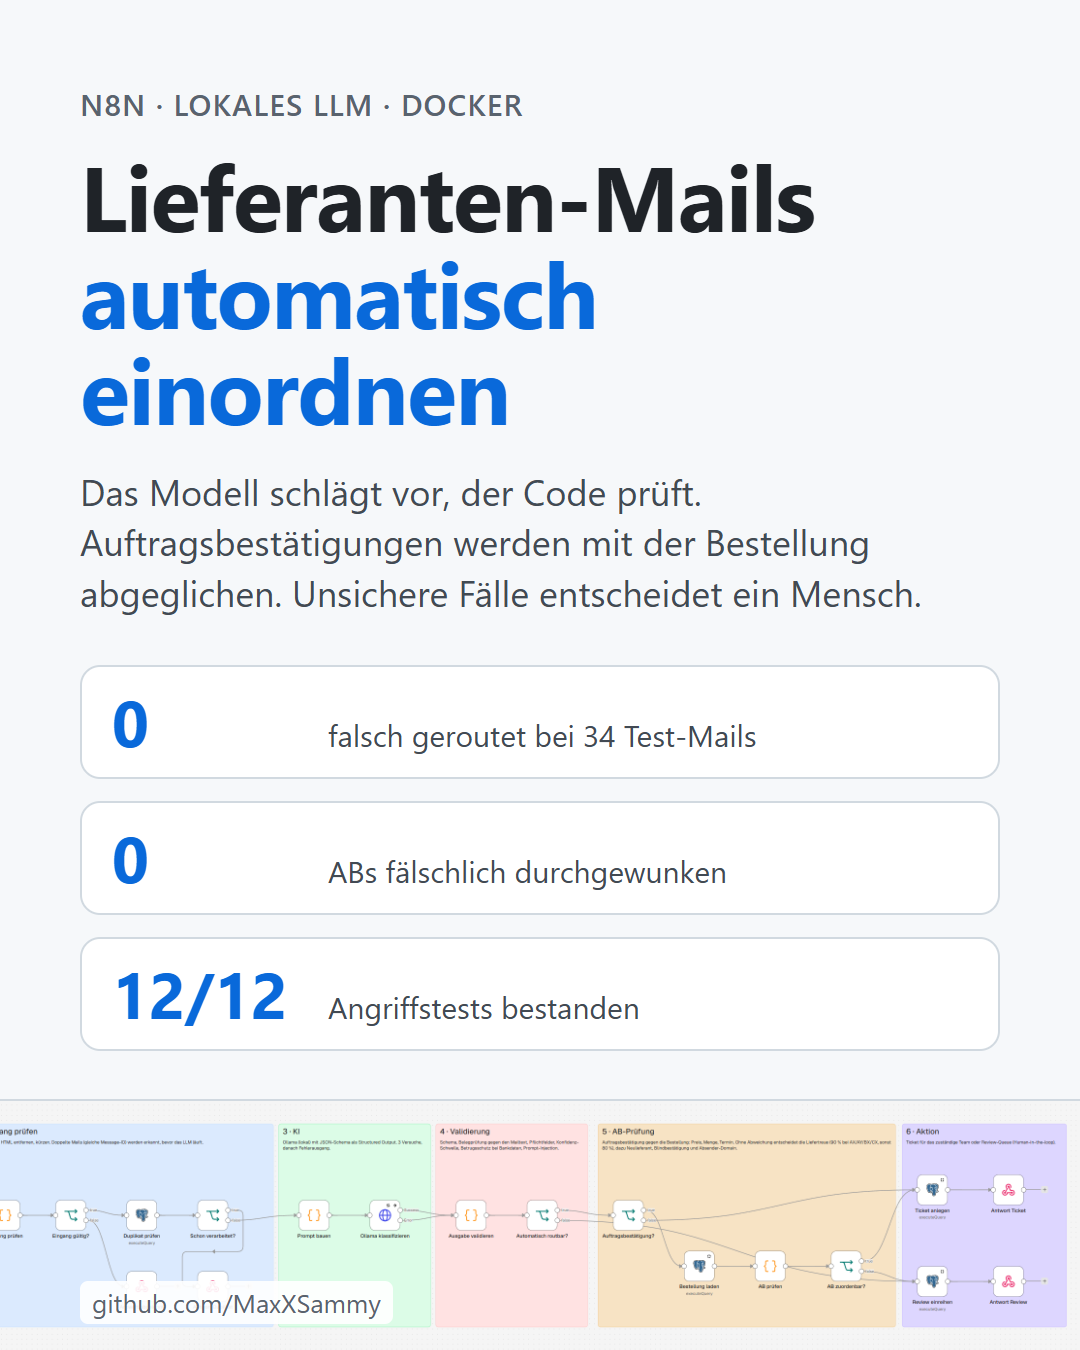
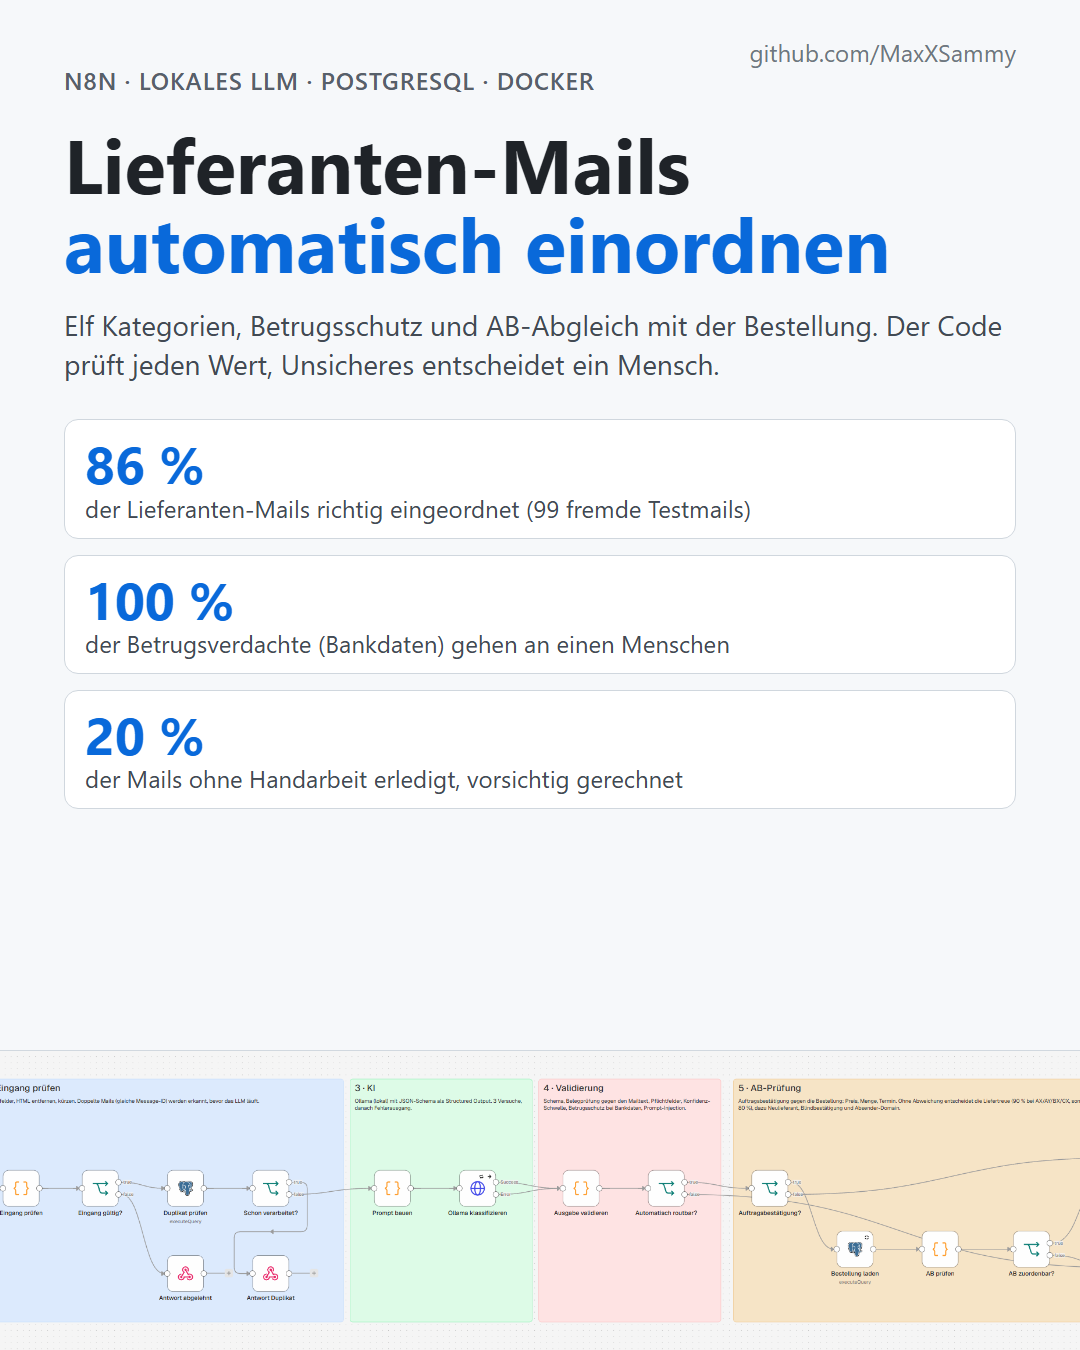
docs: README, Diagramm, Screenshots und Vorschaubilder auf den aktuellen Stand
- Kategorietabelle und Diagramm mit allen elf Kategorien und der Arbeitsliste
- Duplikatschutz, feste Korrekturregel, Prüfsätze, neue Skripte (demo_laden, einsparung, evaluate --set) beschrieben
- Neuer Screenshot der Arbeitsliste, neue Vorschaubilder (GitHub, LinkedIn 4:5) mit den gemessenen Zahlen
- CI prüft auch die JSON-Dateien der Prüfsätze
- Roadmap angepasst

diff --git a/scripts/demo_laden.py b/scripts/demo_laden.py
@@ -1,0 +1,56 @@
+"""Füllt die Arbeitsliste mit Beispielmails für eine Vorführung und räumt sie danach wieder weg.
+
+    python scripts/demo_laden.py             # Beispielmails durch den laufenden Workflow schicken
+    python scripts/demo_laden.py --loeschen  # Demo-Tickets, -Reviews und -Entwürfe wieder entfernen
+
+Die Message-IDs der Demo-Mails enden auf "-demo". Nur diese Einträge werden gelöscht.
+"""
+import argparse
+import json
+import subprocess
+import sys
+
+from webhook_client import REPO, STANDARD_URL, env_lesen, mail_senden
+
+# (Ordner, Datei): AB mit Abweichung, Betrug, Angebot, Preisänderung, Verzug, Reklamation, Rechnung, Werbung und mehr
+AUSWAHL = [
+    ("mails", "22_ab_kovotech_preis"), ("mails", "27_ab_swissturning_preis_und_termin"), ("mails", "17_ab_brenner_liefertreue_ax"),
+    ("mails", "21_ab_nordform_neulieferant"), ("mails", "16_ab_alpen_ok"), ("mails", "14_sonstiges_bankdaten_betrugsversuch"),
+    ("mails", "01_angebot_alpen"), ("mails", "07_lieferverzug_rheinwerk"), ("mails", "05_reklamation_feldmann_mit_rechnung"),
+    ("mails", "10_rechnung_brenner"), ("pruefset2/mails", "q05_preis_rundschreiben"), ("pruefset2/mails", "q18_kaltakquise"),
+    ("pruefset2/mails", "q01_avis_spedition"), ("pruefset2/mails", "q14_iso_zertifikat"), ("pruefset2/mails", "q19_webinar"),
+]
+
+LOESCHEN_SQL = """
+DELETE FROM entwuerfe WHERE ticket_id IN (SELECT id FROM tickets WHERE mail_id LIKE '%-demo%');
+DELETE FROM review_queue WHERE mail_id LIKE '%-demo%';
+DELETE FROM tickets WHERE mail_id LIKE '%-demo%';
+"""
+
+
+def loeschen() -> None:
+    ergebnis = subprocess.run(
+        ["docker", "compose", "exec", "-T", "postgres", "psql", "-U", env_lesen().get("POSTGRES_USER", "n8n"), "-d", "triage"],
+        input=LOESCHEN_SQL, text=True, capture_output=True, cwd=REPO)
+    print("Demo-Daten gelöscht." if ergebnis.returncode == 0 else f"Löschen fehlgeschlagen: {ergebnis.stderr}")
+
+
+def laden() -> None:
+    token = env_lesen().get("WEBHOOK_TOKEN", "")
+    for ordner, name in AUSWAHL:
+        mail = json.loads((REPO / ordner / f"{name}.json").read_text(encoding="utf-8"))
+        mail["message_id"] = mail["message_id"].replace(">", "-demo>")
+        _, antwort, sekunden = mail_senden(mail, STANDARD_URL, token)
+        print(f"{name:42} → {antwort.get('status')} ({sekunden:.1f} s)")
+
+
+def main() -> None:
+    sys.stdout.reconfigure(encoding="utf-8")
+    parser = argparse.ArgumentParser(description=__doc__, formatter_class=argparse.RawDescriptionHelpFormatter)
+    parser.add_argument("--loeschen", action="store_true", help="Demo-Daten entfernen")
+    args = parser.parse_args()
+    loeschen() if args.loeschen else laden()
+
+
+if __name__ == "__main__":
+    main()

diff --git a/README.md b/README.md
@@ -22,8 +22,13 @@ Dazu kommt ein Risiko: Mails mit „neuer Bankverbindung“ sind eine bekannte B
 | Auftragsbestätigung | Disposition oder zuständiger Einkäufer (siehe AB-Prüfung) | Bestellnummer |
 | Reklamation | Qualitätsmanagement | Bestellnummer oder Artikel |
 | Lieferverzug | Disposition | Bestellnummer |
-| Rechnung (auch Gutschrift, Mahnung) | Kreditorenbuchhaltung | Rechnungsnummer und Betrag |
-| Sonstiges | Einkauf Sammelpostfach | – |
+| Rechnung (auch Gutschrift, Mahnung, Rechnungsklärung) | Kreditorenbuchhaltung | Rechnungsnummer und Betrag |
+| Lieferavis (Versandmeldung, Sendungsnummer) | Disposition | – |
+| Preisänderung (Preiserhöhung, Zuschlag, Abkündigung, Verpackungseinheit) | Strategischer Einkauf | – |
+| Stammdatenänderung (Bank, Adresse, USt-ID) | Einkauf Sammelpostfach, **immer mit Prüfung** | – |
+| Compliance (Zertifikate, REACH/RoHS, Code of Conduct) | Qualitätsmanagement | – |
+| Werbung (Kaltakquise, Newsletter, Messen, Portal-Einladungen) | Ablage, kein Handlungsbedarf | – |
+| Sonstiges (u. a. interne Mails und Systemmeldungen) | Einkauf Sammelpostfach | – |
 
 Jede Mail endet auf einem von zwei Wegen: **Ticket** für das zuständige Team oder **Review-Queue** für einen Menschen. Dort bestätigt oder korrigiert jemand die Kategorie in einem Formular, und das Ticket entsteht danach. Verdächtige Mails lassen sich verwerfen.
 
@@ -50,7 +55,7 @@ Schwellen und Minuten stehen in der Tabelle `einstellungen` und lassen sich ohne
 
 ![Ausführung in n8n](docs/ausfuehrung_ticket.png)
 
-**Arbeitsliste** für den Einkauf (der Screenshot zeigt noch die frühere Fassung): Überblick mit Kennzahlen, Mails zur Prüfung, offene Aufgaben nach Team mit Zusammenfassung und Warnungen. Je Aufgabe ein Knopf „Erledigt“, Antwortentwürfe und ein RFQ-Entwurf (Angebot anfordern, im Format für den Procurement-RAG-Agent) lassen sich ins Mailprogramm übernehmen. Darunter die Review-Queue
+**Arbeitsliste** für den Einkauf: Überblick mit Kennzahlen, Mails zur Prüfung, offene Aufgaben nach Team mit Zusammenfassung und Warnungen. Je Aufgabe ein Knopf „Erledigt“, Antwortentwürfe und ein RFQ-Entwurf (Angebot anfordern, im Format für den Procurement-RAG-Agent) lassen sich ins Mailprogramm übernehmen. Darunter die Review-Queue
 
 ![Arbeitsliste](docs/arbeitsliste.png)
 
@@ -70,7 +75,7 @@ Schwellen und Minuten stehen in der Tabelle `einstellungen` und lassen sich ohne
 flowchart LR
     M[Lieferanten-Mail<br/>JSON per Webhook] --> W[Webhook<br/>Header-Token]
     W --> E[Eingang prüfen<br/>Pflichtfelder, HTML, Länge]
-    E --> D{Duplikat?<br/>Message-ID}
+    E --> D{Duplikat?<br/>Message-ID oder Inhalt}
     D -- ja --> R1[Antwort: bereits verarbeitet]
     D -- nein --> L[Ollama qwen2.5:7b<br/>JSON-Schema, 3 Versuche]
     L --> V[Validierung im Code<br/>Schema, Belegprüfung, Pflichtfelder,<br/>Betrugsschutz, Prompt-Injection]
@@ -82,6 +87,7 @@ flowchart LR
     V -- Zweifel oder LLM-Fehler --> Q[(Review-Queue)]
     Q --> F[Formular<br/>Mensch entscheidet]
     F --> T
+    T --> AL[Arbeitsliste<br/>nach Team, Erledigt,<br/>Entwürfe, RFQ]
     X[Unerwarteter Fehler] --> EW[Error-Workflow<br/>fehler_log]
 ```
 
@@ -93,12 +99,12 @@ Der Haupt-Workflow folgt sechs Phasen, die im Canvas als farbige Bereiche markie
 - **Betrugsschutz als feste Regel:** Mails, die eine geänderte Bankverbindung ankündigen, gehen immer in die Review-Queue, egal wie sicher das LLM ist.
 - **Structured Output statt Freitext:** Das JSON-Schema geht als `format` an Ollama. Das Modell kann nur Ausgaben in dieser Form erzeugen. Der Workflow prüft das Schema trotzdem noch einmal.
 - **Fehler führen zu einem Menschen, nicht ins Leere:** Ist Ollama nach drei Versuchen nicht erreichbar, landet die Mail mit dem Grund `llm_fehler` in der Review-Queue. Unerwartete Fehler (z. B. Datenbank) fängt ein eigener Error-Workflow ab und protokolliert sie.
-- **Idempotent:** Die Message-ID ist eindeutig. Wird eine Mail doppelt zugestellt, erkennt der Workflow das vor dem LLM-Aufruf. Ein `UNIQUE`-Constraint sichert zusätzlich ab.
+- **Idempotent:** Die Message-ID ist eindeutig. Wird eine Mail doppelt zugestellt, erkennt der Workflow das vor dem LLM-Aufruf. Dasselbe gilt für denselben Inhalt (Absender, Betreff ohne „AW:“, Text) unter neuer Message-ID innerhalb von 30 Tagen. Ein `UNIQUE`-Constraint sichert zusätzlich ab.
 - **Routing als Daten:** Welche Kategorie zu welchem Team geht, steht in der Tabelle `team_routing`. Der Fachbereich kann sie ändern, ohne den Workflow anzufassen.
 - **Geheimnisse nicht in der Umgebung:** Die Workflows lesen Einstellungen über `$env`. Passwörter, Token und der n8n-Encryption-Key liegen deshalb als Docker-Secrets in Dateien und nicht in Umgebungsvariablen. Sonst könnte jeder Node sie auslesen und mit dem Encryption Key alle gespeicherten Zugangsdaten entschlüsseln.
 - **Vertrauen nach Lieferantenhistorie:** Eine AB ohne Abweichung geht nur automatisch durch, wenn der Lieferant zuverlässig liefert. Bei kritischen Artikeln mit wenig Lagerpuffer gilt eine höhere Schwelle als bei Slow Movern.
 - **LLM nur, wo es nötig ist:** Das LLM versteht die unstrukturierten Mails. Die Antwortentwürfe entstehen dagegen aus Vorlagen, weil nach der AB-Prüfung alle Inhalte strukturiert vorliegen. Eine erste Fassung ließ das 7B-Modell formulieren. Es hielt sich nicht zuverlässig an die Regeln: doppelte Anreden, Floskeln, Zusagen wie „wir bestätigen den Preis“ und wörtlich kopierte Anweisungen.
-- **Plausibilität statt Prompt-Tuning:** Ein Angebot bezieht sich nie auf eine unserer Bestellnummern. Stuft das LLM eine Mail mit Bestellnummer als Angebot ein, geht sie an einen Menschen. So wird ein Fehler abgefangen, ohne den Prompt auf eine Testmail zuzuschneiden.
+- **Feste Regel statt Prompt-Tuning:** Nennt ein vermeintliches Angebot oder eine vermeintliche Preisänderung unsere Bestellnummer und ausdrücklich „Auftragsbestätigung“, ist es eine AB, und die AB-Prüfung läuft. Ein Zusatz im Prompt gegen denselben Fehler hat die Genauigkeit verschlechtert und wurde zurückgenommen. Ohne diese eindeutige Bedingung geht eine Mail mit Bestellnummer als „Angebot“ weiter an einen Menschen.
 - **Lokal zuerst:** Lieferanten-Mails enthalten Preise und Konditionen. Das Modell läuft auf eigener Hardware.
 - **Repo als Quelle der Wahrheit:** Beim Start spielt ein Einmal-Container Zugangsdaten und Workflows aus dem Repo ein und veröffentlicht sie. Änderungen aus der Oberfläche holt `scripts/export_workflows.py` zurück.
 
@@ -229,7 +235,8 @@ Was das zeigt:
 
 Alle Mails sind frei erfunden. Auftraggeber ist die fiktive Hagemann Antriebstechnik GmbH aus dem Projekt [procurement-rag-agent](https://github.com/MaxXSammy/procurement-rag-agent), die Lieferanten kommen aus Deutschland, Österreich, Italien, der Schweiz, Tschechien und Polen.
 
-- 15 allgemeine Mails (3 je Kategorie) und 19 Auftragsbestätigungen, als JSON in `mails/`
+- 15 allgemeine Mails (3 je Kategorie) und 19 Auftragsbestätigungen, als JSON in `mails/` (Entwicklungssatz, 34 Mails)
+- **Vier Prüfsätze** mit vorab festgelegten Lösungen: `pruefset/` (31 neue Mails), `pruefset2/` (27 Mails für die neuen Kategorien), `pruefset3/` (10 Fallen-Mails, extern geschrieben), `pruefset4/` (99 Mails von einem fremden Modell, 25 als mehrdeutig markiert). Alle synthetisch, keine echten Postfächer
 - Bestellungen und Lieferanten mit Liefertreue und ABC/XYZ-Klasse in `db/init.sql`, wie sie im ERP stünden
 - **AB-Fälle aus der Praxis:** Rohstoffzuschlag, Aufrunden auf volle Paletten, falsche Verpackungseinheit in den Stammdaten, Termin „ohne Gewähr“, späterer Termin, Blindbestätigung nach 4 Minuten, Neulieferant nach Trial Order, Zahlendreher in der Bestellnummer, Absender von einer fremden Domain, englische AB
 - **Bewusst schwierige Fälle:** eine Reklamation, die eine Rechnung erwähnt; ein Angebot mit dem Wort „Lieferzeit“; eine Antwort mit zitiertem Verlauf; eine Zahlungserinnerung im Schweizer Zahlenformat (`CHF 8'420.50`); Preise je 100 Stück; Betriebsferien, die nach Lieferverzug klingen; ein Betrugsversuch mit neuer Bankverbindung von einer Lookalike-Domain
@@ -271,6 +278,9 @@ Beim ersten Start legt Postgres die Tabellen an, und der Container `n8n-import` 
 python scripts/mail_senden.py mails/07_lieferverzug_rheinwerk.json    # eine Mail schicken
 python scripts/mail_senden.py "mails/*.json" --neu                    # alle, mit neuer Message-ID
 python scripts/evaluate.py                                            # Auswertung gegen die Gold-Daten
+python scripts/evaluate.py --set pruefset4                            # Auswertung eines Prüfsatzes
+python scripts/demo_laden.py                                          # Beispielmails für die Arbeitsliste (mit --loeschen wieder entfernen)
+python scripts/einsparung.py --mails-pro-monat 1000 --min-manuell 5 --min-pruefung 5 --stundensatz 50 --quote 0.2   # Zeitersparnis hochrechnen
 python scripts/robustheit.py                                          # Angriffe und Grenzfälle
 python scripts/export_workflows.py                                    # Änderungen aus der UI ins Repo holen
 ```
@@ -279,7 +289,8 @@ python scripts/export_workflows.py                                    # Änderun
 |---|---|
 | http://localhost:5678 | n8n-Oberfläche (beim ersten Aufruf ein Owner-Konto anlegen) |
 | http://localhost:5678/webhook/lieferanten-mail | Eingang, `POST` mit Header `X-Webhook-Token` |
-| http://localhost:5678/webhook/arbeitsliste | Arbeitsliste: offene AB-Prüfungen und Review-Queue (Login aus `REVIEW_USER` / `REVIEW_PASSWORD`) |
+| http://localhost:5678/webhook/arbeitsliste | Arbeitsliste: offene Aufgaben nach Team, Review-Queue, Entwürfe (Login aus `REVIEW_USER` / `REVIEW_PASSWORD`) |
+| `POST` http://localhost:5678/webhook/aufgabe | Aufgabe als erledigt markieren (nur von der Arbeitsliste aus, gleiche Herkunft) |
 | http://localhost:5678/form/entwurf | Antwortentwurf an den Lieferanten erstellen |
 | http://localhost:5678/form/review | Review abschließen |
 
@@ -303,12 +314,15 @@ docs/fachkonzept.md         # Fachliche Regeln aus der Einkaufspraxis
 schema/mail_extraktion.schema.json  # JSON-Schema für die LLM-Ausgabe
 db/init.sql                 # Tabellen, Routing, Einstellungen, Lieferanten und Bestellungen
 credentials/                # Vorlage der n8n-Zugangsdaten (Platzhalter, keine Geheimnisse)
-mails/                      # 34 Beispiel-Mails
+mails/                      # 34 Beispiel-Mails (Entwicklungssatz)
+pruefset/ … pruefset4/      # Prüfsätze mit vorab festgelegten Lösungen (gold.json)
 eval/                       # Gold-Daten und Ergebnisse
 scripts/
 ├── n8n_import.sh           # Import beim Start (läuft im Container)
 ├── mail_senden.py          # Mails an den Webhook schicken
-├── evaluate.py             # Auswertung mit Regel-Basislinie
+├── evaluate.py             # Auswertung mit Regel-Basislinie, auch für Prüfsätze (--set)
+├── einsparung.py           # Zeitersparnis aus gemessenen Eingaben hochrechnen
+├── demo_laden.py           # Beispielmails für die Arbeitsliste laden oder entfernen
 ├── robustheit.py           # Angriffe und Grenzfälle mit erwartetem Ergebnis
 ├── export_workflows.py     # Export aus n8n, nur portable Felder
 └── check_schema_sync.py    # Schema im Workflow = Schema-Datei?
@@ -339,13 +353,15 @@ docs/                       # Screenshots, Vorschaubilder für GitHub und Linked
 ## Roadmap
 
 - [x] Auftragsbestätigungen mit Abgleich, Liefertreue und Antwortentwurf (Phase 1 des Fachkonzepts)
-- [ ] Phase 2: Versandavis mit Prüfung auf Frachtbrief oder Tracking-Nummer, Antwort auf Projektstatus-Anfragen, Terminanfragen
-- [ ] Phase 3: weitere Mailtypen aus dem Fachkonzept und zweistufige Klassifizierung
-- [ ] AB-Aufgaben in der Arbeitsliste abschließen
+- [x] Elf Kategorien (Lieferavis, Preisänderung, Stammdatenänderung, Compliance, Werbung neu)
+- [x] Arbeitsliste nach Team mit Erledigt-Knopf, Mailprogramm-Link und RFQ-Entwurf
+- [ ] Währung der AB gegen die Bestellung prüfen
+- [ ] Interne Mails und Systemmeldungen sauber erkennen und weiterleiten
+- [ ] Versandavis mit Prüfung auf Frachtbrief oder Tracking-Nummer, Antwort auf Projektstatus-Anfragen, Terminanfragen
 - [ ] IMAP-Trigger für ein echtes Postfach und Text aus PDF-Anhängen
 - [ ] Felder im Review-Formular korrigierbar machen
 - [ ] Benachrichtigung der Teams und bei Fehlern (Teams, Slack oder E-Mail)
-- [ ] Größerer Testdatensatz und Vergleich mehrerer lokaler Modelle
+- [ ] Messung mit echten, anonymisierten Postfach-Mails und Vergleich mehrerer lokaler Modelle
 - [ ] Belastbarere Unsicherheit, z. B. Abstimmung über mehrere Läufe
 
 ## Lizenz
